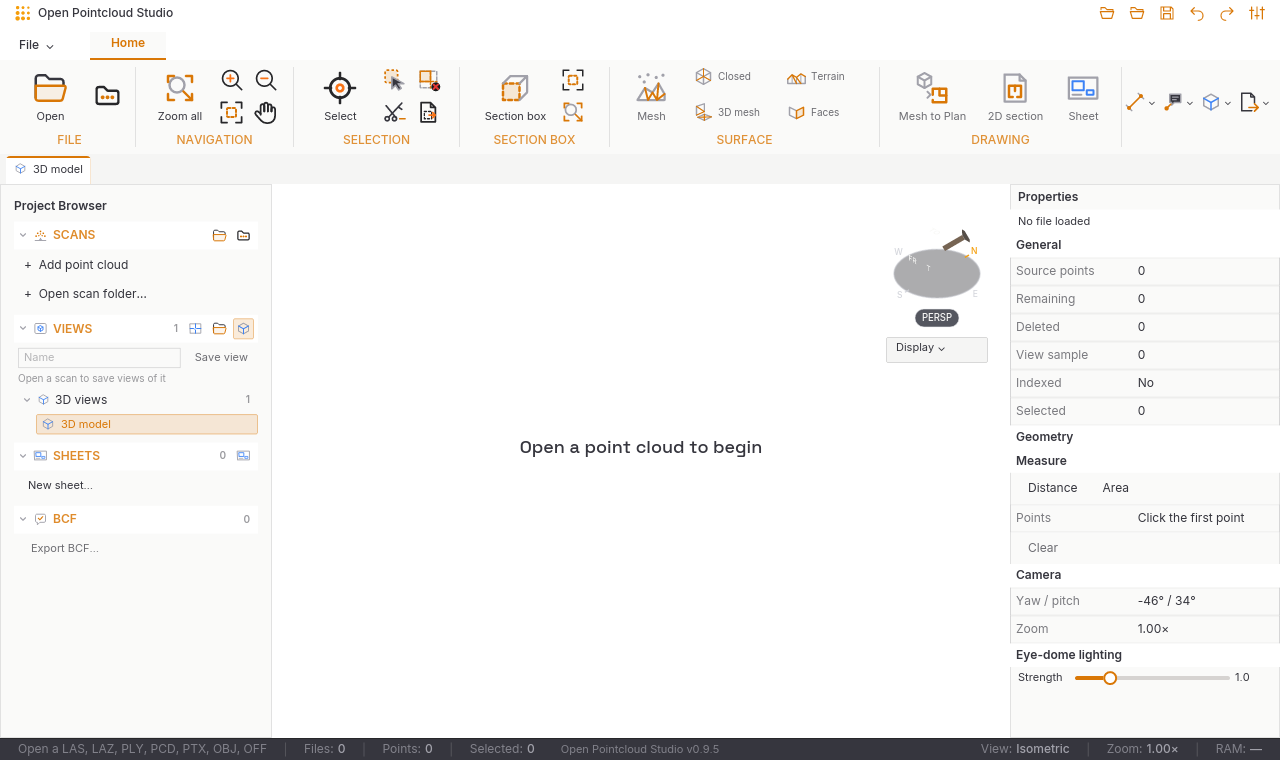
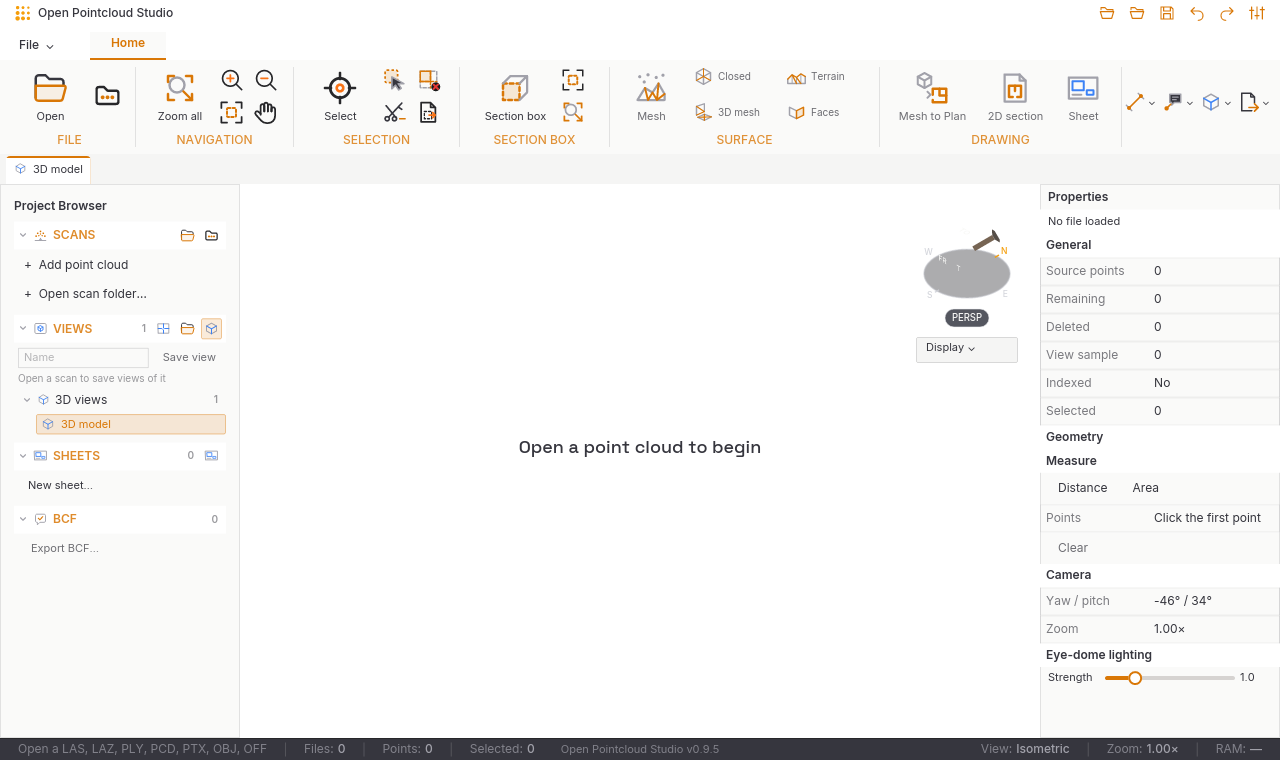
Align Pointcloud panels with shared Tauri width

diff --git a/native/desktop/src/main.rs b/native/desktop/src/main.rs
@@ -2982,7 +2982,7 @@ impl Studio {
         } else if self.window_size.is_some_and(|size| size.width >= 1500.0) {
             300.0
         } else {
-            270.0
+            openaec_ui::model::metrics::PANEL_DEFAULT as f32
         }
     }
 
@@ -11556,8 +11556,10 @@ impl Studio {
                                 Message::EyeDomeStrength,
                             )
                             .step(0.1_f32)
-                            .width(155),
-                            text(format!("{:.1}", self.eye_dome_strength)).size(11),
+                            .width(130),
+                            text(format!("{:.1}", self.eye_dome_strength))
+                                .size(11)
+                                .width(28),
                         ]
                         .spacing(5)
                         .align_y(iced::Alignment::Center),

diff --git a/native/ui/src/model.rs b/native/ui/src/model.rs
@@ -9,6 +9,8 @@ pub mod metrics {
     pub const RIBBON: u16 = 94;
     pub const DOCUMENTS: u16 = 30;
     pub const STATUS: u16 = 22;
+    pub const PANEL_DEFAULT: u16 = 240;
+    pub const WINDOW_DEFAULT_WIDTH: u16 = 1280;
     pub const CONTROL: u16 = 30;
     pub const ICON: u16 = 20;
     pub const GAP: u16 = 8;
@@ -118,8 +120,9 @@ impl Default for Preferences {
             scale: 1.0,
             explorer_visible: true,
             properties_visible: true,
-            explorer_ratio: 0.2,
-            properties_ratio: 0.75,
+            explorer_ratio: metrics::PANEL_DEFAULT as f32 / metrics::WINDOW_DEFAULT_WIDTH as f32,
+            properties_ratio: (metrics::WINDOW_DEFAULT_WIDTH - 2 * metrics::PANEL_DEFAULT) as f32
+                / (metrics::WINDOW_DEFAULT_WIDTH - metrics::PANEL_DEFAULT) as f32,
         }
     }
 }

diff --git a/native/desktop/src/shell_tests.rs b/native/desktop/src/shell_tests.rs
@@ -108,6 +108,16 @@ fn export_harmonized_shell_previews() {
         crate::test_render::render_window(&studio, iced::Size::new(1280.0, 760.0))
             .save_png(&folder.join(format!("pointcloud-shell-{name}.png")));
     }
+    let directory = tempfile::tempdir().unwrap();
+    let path = directory.path().join("review-scan.xyz");
+    std::fs::write(&path, "0 0 0\n4 0 0\n4 3 0\n0 3 2\n").unwrap();
+    let cloud = Arc::new(pointcloud_core::open(&path, 10).unwrap());
+    let _ = studio.update(Message::Loaded(Ok(cloud)));
+    for (theme, name) in [(UiTheme::Light, "light"), (UiTheme::Forge, "forge")] {
+        studio.ui_theme = theme;
+        crate::test_render::render_window(&studio, iced::Size::new(1280.0, 760.0))
+            .save_png(&folder.join(format!("pointcloud-shell-loaded-{name}.png")));
+    }
 }
 
 #[test]

diff --git a/native/desktop/src/project_browser.rs b/native/desktop/src/project_browser.rs
@@ -38,7 +38,7 @@ const FOLDER: &str = "folder:";
 /// collapsed folders going first.
 const MAX_COLLAPSED: usize = 64;
 /// The width of the Project Browser.
-pub const WIDTH: f32 = 272.0;
+pub const WIDTH: f32 = openaec_ui::model::metrics::PANEL_DEFAULT as f32;
 
 /// The key of the sub-group of the scans in a folder.
 pub fn folder_key(folder: &Path) -> String {
